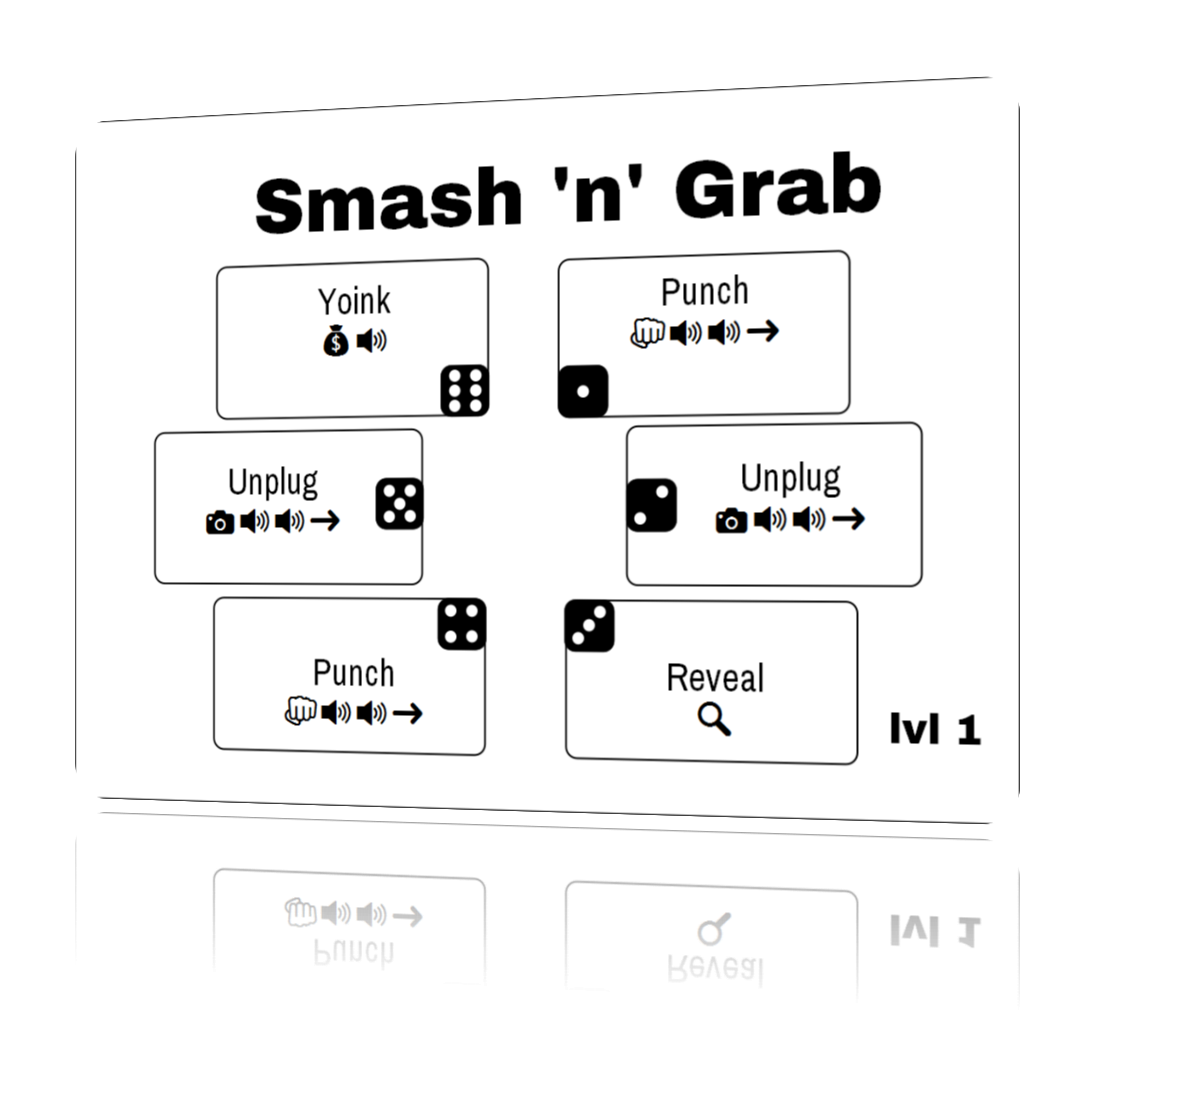
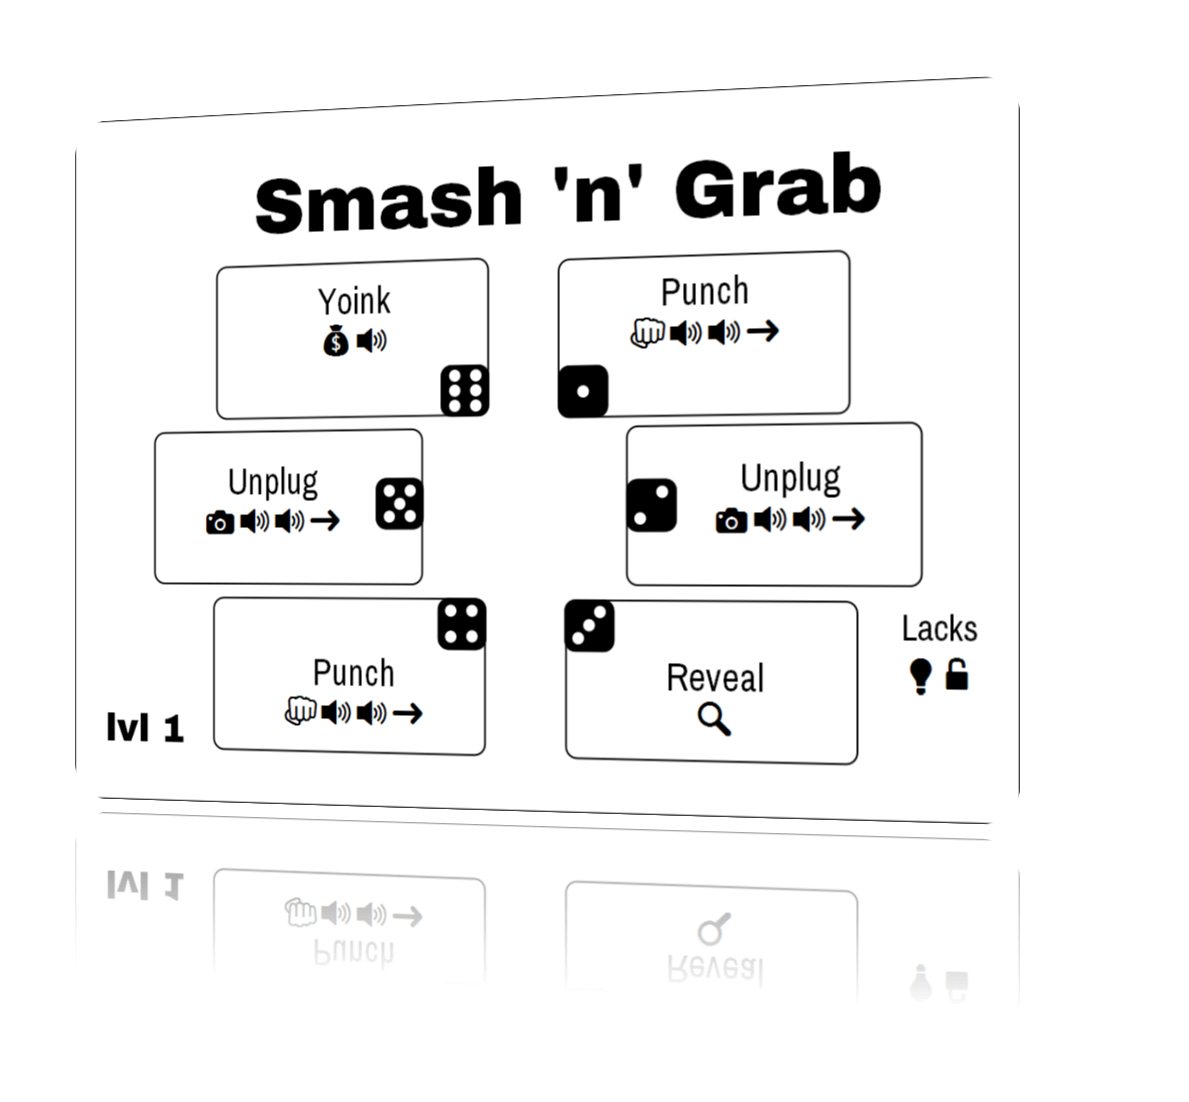
skills: add "Lacks" to card. :bulb:

diff --git a/src/helpers.rb b/src/helpers.rb
@@ -26,6 +26,10 @@ def summarize_skill(str)
   str.gsub(/[^💡🔊➜📷🔍👊🔓⚠]/,'').chars.sort.join
 end
 
+def skill_lacks(str)
+  "Lacks\n" + ('💡➜📷🔍👊🔓'.chars - str.chars).join
+end
+
 # this isn't working for some stupid reason
 module Squib
   module ArrayExtras
@@ -36,7 +40,7 @@ module Squib
 
       def merge(other, op)
         self.zip(other).map { |a| a.inject(op) }
-      end      
+      end
     end
   end
 end

diff --git a/src/skills.rb b/src/skills.rb
@@ -16,6 +16,7 @@ Squib::Deck.new(cards: total, width: 1125, height: 825) do
   svg file: 'skill.svg'
 
   text str: data['Level'].map { |l| "lvl #{l}"}, layout: :level
+  text str: data['Rolls'].map { |s| skill_lacks(s) }, layout: :lacks
   text str: data['Name'], layout: :name
   (1..6).each do |i|
     text str: data[i.to_s], layout: "die_roll_#{i}"
